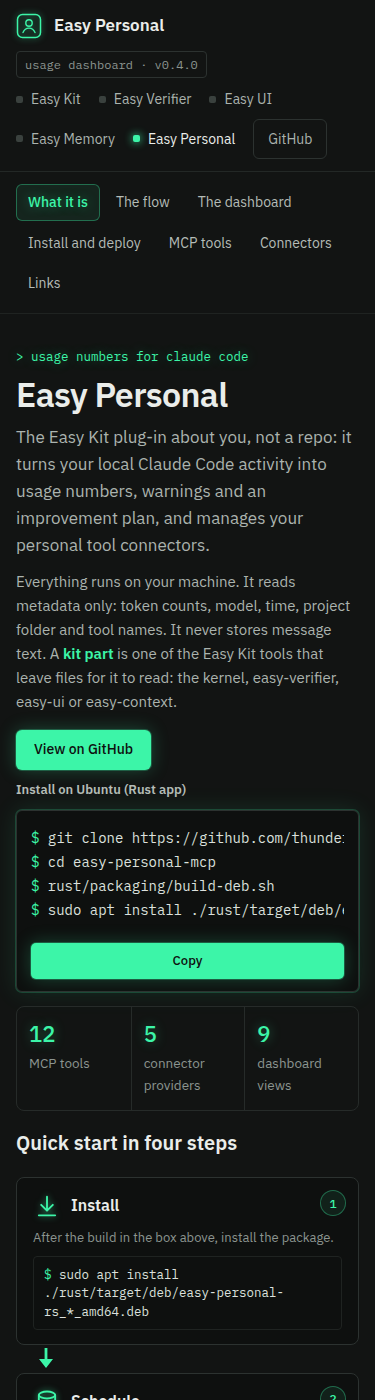
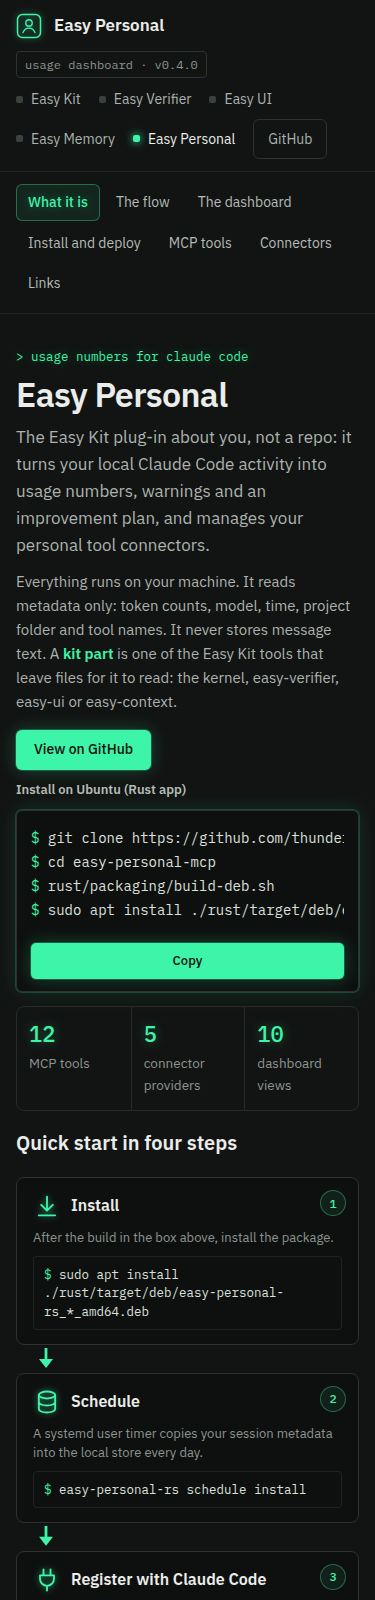
T089: Stage 4 evidence; screenshots retaken after fixes

diff --git a/tasks/TASK_GUIDE_T089.md b/tasks/TASK_GUIDE_T089.md
@@ -74,13 +74,13 @@ uv run pytest tests/test_site_content.py tests/test_site_theme.py tests/test_sit
 ### Evidence (filled by reviewer at Stage 4/5)
 | Item | Result | Evidence |
 |---|---|---|
-| New test(s) cover acceptance criteria | ☐ | |
-| Verification command | ☐ | |
-| code-review | ☐ | |
+| New test(s) cover acceptance criteria | ☑ | new tests in tests/test_site_content.py (deb-before-uv on page and README, Recent alerts + AppIndicators named, rust/README Not done, apt-line negative); Supervisor rerun `uv run pytest tests/test_site_content.py tests/test_site_theme.py tests/test_site_deploy_config.py tests/test_readme.py -q` → `98 passed in 0.97s` |
+| Verification command | ☑ | full `uv run pytest -q` (Supervisor, after Stage 4 fixes) → `1856 passed, 2 skipped, 7 deselected, 1 xfailed, 1 warning in 165.40s` |
+| code-review | ☑ | Supervisor inline 2026-11-15: 1 P1 fixed (`014f7eb`: `easy-personal-rs dashboard` is an alias of `serve` and opens no window → `app`, as the .desktop entry runs), 1 pre-existing failure fixed in scope (views stat 9 → 10 after T077); 1 P1 process (startup reads partial) |
 | security-review | ☐ N/A | Risk Low: static docs; `test_site_tree_has_no_host_path_email_or_token` still runs |
-| UI: visual regression | ☐ | |
-| UI: design-system compliance | ☐ | |
-| UI: responsiveness | ☐ | |
+| UI: visual regression | ☑ | tasks/T089-screens/hero-desktop.png + hero-375.png retaken after fixes (headless Chrome); install-*.png from the agent (pre-fix text, same layout) |
+| UI: design-system compliance | ☑ | test_site_theme passes; one new CSS rule `h3.sub { margin-top: 1rem; }`, no new colours |
+| UI: responsiveness | ☑ | 375 px: scrollWidth == clientWidth (agent iframe check); commands scroll inside `pre` |
 
 ## Demonstration
 > BEFORE/AFTER/DELTA/WITNESS go in `tasks/TASK_REVIEW_T089.md`. BEFORE = the current hero install box and `#install` text, quoted.
@@ -124,5 +124,5 @@ Test first: change the test data/new tests, see them fail, then edit README, pag
 ACs 1-6 as automated tests with pasted output; AC 7 screenshots.
 
 ## Completion Checklist
-- [ ] Every AC with pasted output in `tasks/TASK_REVIEW_T089.md`
-- [ ] Commits on branch `T089` only; final report with `Status:`
+- [x] Every AC with pasted output in `tasks/TASK_REVIEW_T089.md`
+- [x] Commits on branch `T089` only; final report with `Status:`

diff --git a/tasks/TASK_REVIEW_T089.md b/tasks/TASK_REVIEW_T089.md
@@ -101,3 +101,17 @@ Screenshots (headless google-chrome): `tasks/T089-screens/hero-desktop.png`, `he
 
 **WITNESS**: [who ran it and when — derived from `memory/event-trace/T089.jsonl`, never the
 implementing agent alone]
+
+---
+
+## Stage 4 — code-review (Supervisor inline, 2026-11-15)
+
+Scope: `site/index.html`, `README.md`, `rust/README.md`, `tests/test_site_content.py`. Commands checked against `rust/crates/app/src/main.rs` and `rust/packaging/*.desktop`.
+
+- P1 (fixed, `014f7eb`): the window step used `easy-personal-rs dashboard`. In the Rust app `dashboard` is an alias of `serve` (`main.rs:71`): it serves on 127.0.0.1 and prints a URL; it opens no window. The `.desktop` entry runs `app --static-dir /usr/share/easy-personal-rs/static`. Page, README and `RS_DASHBOARD` now use `app`.
+- Pre-existing failure fixed in scope: `test_stat_strip_numbers_come_from_real_sources` failed on main (page 9 views, `web/src/App.jsx` 10 since T077 Watch view). Stat → 10.
+- P1 (process): startup reads partial (PROJECT_SPEC.md, rust/PROJECT_SPEC.md, agents/frontend.md line counts only). No content impact found.
+- P3: `rust/packaging/README.md` says "The dashboard needs the page folder: `easy-personal-rs dashboard --static-dir …`" — correct for `serve`, but a reader may expect a window. Not touched (out of scope); candidate follow-up.
+- Agent choice accepted: the AppIndicators `gnome-extensions enable …@ubuntu.com` command is linked, not copied (the `@` trips the no-email scan).
+
+Tests after fixes: site + readme `98 passed`; full suite `1856 passed, 2 skipped, 7 deselected, 1 xfailed`.
